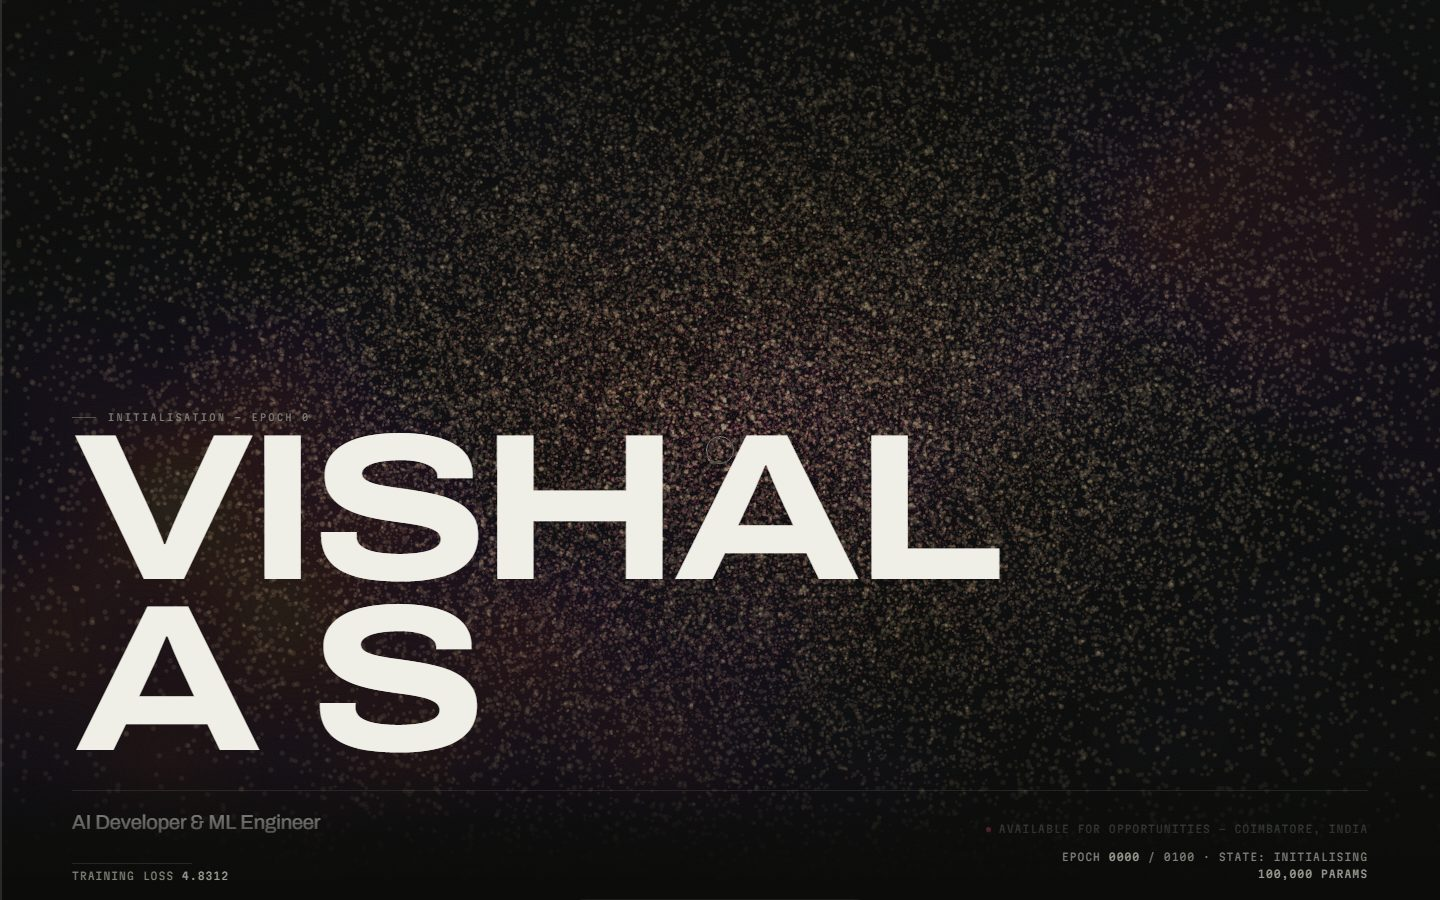
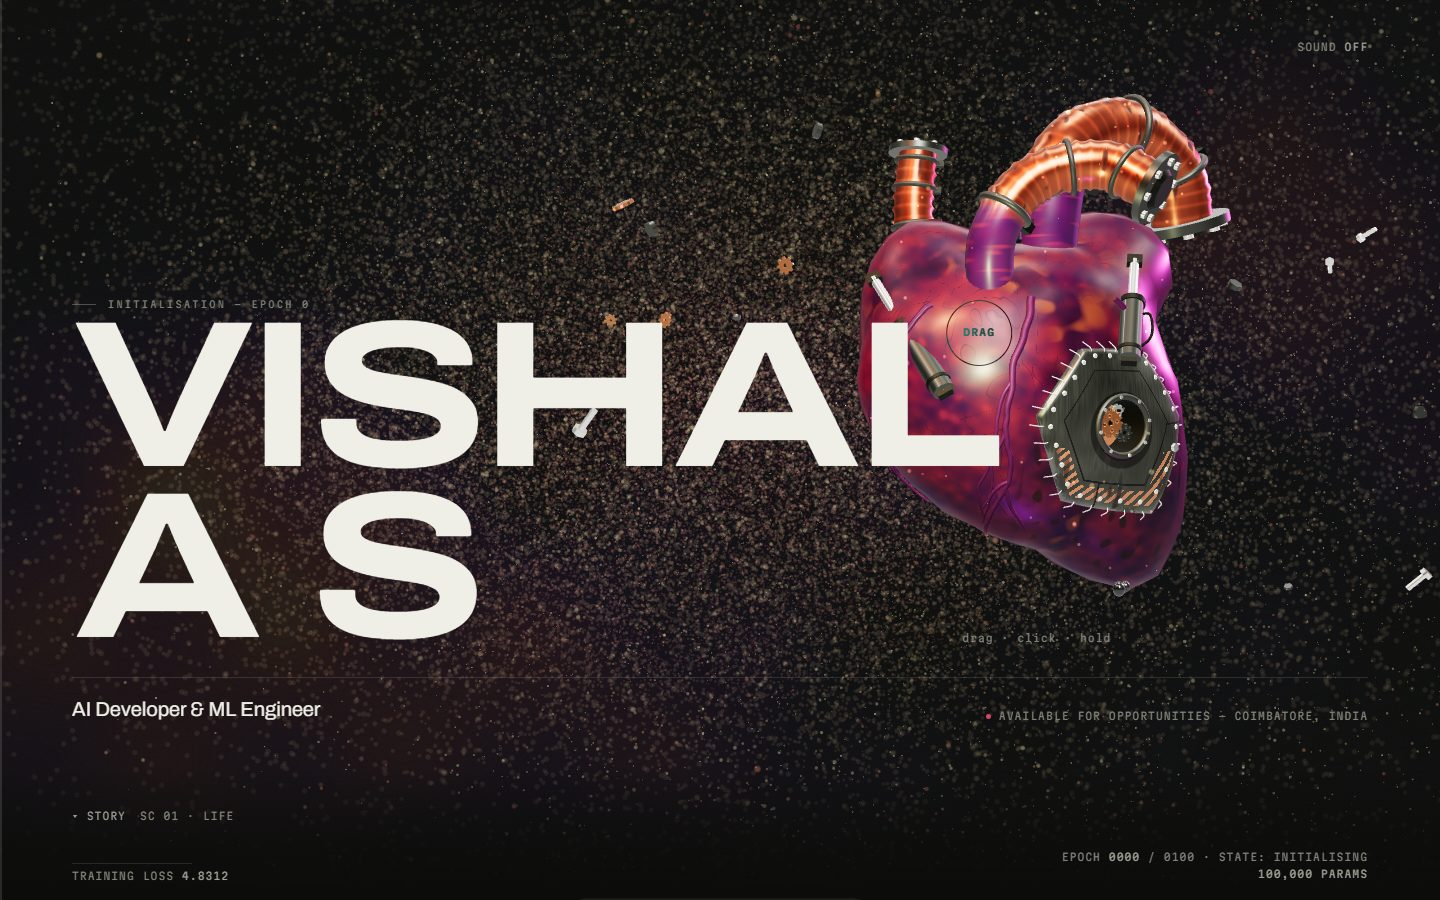
docs(readme): the 3D heart, the story band and a 3D mechanism per case study; new hero + mechanism screenshots
Also, in the not-yet-published GitHub READMEs: hits.sh view counter (komarev 404s through
GitHub's image proxy), streak card dropped, "just shipped" line, two dead competition links
(Solafune, Kaggle) replaced with notes.

diff --git a/README.md b/README.md
@@ -2,7 +2,7 @@
 
 <img src="https://capsule-render.vercel.app/api?type=waving&color=0:0C0D0B,30:3B0F70,60:8C2981,85:DE4968,100:FE9F6D&height=240&section=header&text=VISHAL%20A%20S&fontSize=64&fontColor=FCFDBF&fontAlignY=36&desc=Portfolio%20%C2%B7%20one%20repo%2C%20one%20deploy%2C%20ten%20worlds&descSize=19&descAlignY=58&animation=fadeIn" width="100%" alt="Vishal A S — portfolio"/>
 
-<img src="https://readme-typing-svg.demolab.com?font=Fira+Code&weight=600&size=21&duration=2800&pause=900&color=FE9F6D&center=true&vCenter=true&width=740&lines=%E2%9C%A8+100k-point+WebGL+field%2C+driven+by+scroll;%F0%9F%93%96+8+case+studies%2C+8+visual+languages;%F0%9F%93%84+A+plain+version+at+%2Fplain%2F;%F0%9F%9A%80+One+push+deploys+both" alt="typing summary"/>
+<img src="https://readme-typing-svg.demolab.com?font=Fira+Code&weight=600&size=21&duration=2800&pause=900&color=FE9F6D&center=true&vCenter=true&width=740&lines=%F0%9F%AB%80+A+half-flesh%2C+half-machine+3D+heart;%E2%9C%A8+100k-point+WebGL+field%2C+driven+by+scroll;%F0%9F%93%96+8+case+studies%2C+8+visual+languages;%F0%9F%A7%B1+An+interactive+3D+mechanism+on+every+one;%F0%9F%93%84+A+plain+version+at+%2Fplain%2F;%F0%9F%9A%80+One+push+deploys+both" alt="typing summary"/>
 
 <br/>
 
@@ -40,7 +40,7 @@ One repo, one build, **two sites on one origin**:
 
 | Path | Site | Built with |
 |---|---|---|
-| `/` | 🌌 **The main site** — a scroll-driven 100k-point particle field, a HUD that reads like a training run, and **eight standalone case-study pages** under `/work/:slug` | `v2/` · React, three.js, GSAP, Lenis |
+| `/` | 🌌 **The main site** — a half-flesh, half-machine **3D heart** you can drag, click and overclock, a scroll-driven 100k-point particle field, a silhouette **story told along the bottom edge**, a HUD that reads like a training run, and **eight standalone case-study pages** under `/work/:slug` | `v2/` · React, three.js, GSAP, Lenis |
 | `/plain/` | 📄 **The plain version** — one calm, readable page for anyone who'd rather skip the motion | repo root · React, shadcn/ui, Framer Motion |
 
 > 🚀 `npm run build:site` builds the main site into `v2/dist`, then the plain site into
@@ -52,16 +52,20 @@ One repo, one build, **two sites on one origin**:
 Every page invents its own fonts, palette, motion and technique — nothing is shared but the
 router. Each is code-split, so a project page never downloads the landing page's WebGL.
 
-| | Project | Concept | Technique |
-|:---:|---|---|---|
-| 👶 | [Why my baby is crying](https://portfolio-sigma-blond-57.vercel.app/work/baby-cry) | *Night Shift* | raw WebGL fragment shader, no three.js |
-| 🧠 | [EEG emotion detection](https://portfolio-sigma-blond-57.vercel.app/work/eeg-emotion) | *Paper* | pinned horizontal transport + SVG traces |
-| 📢 | [Tamil political sentiment](https://portfolio-sigma-blond-57.vercel.app/work/dravidian-sentiment) | *Muzhakkam* | kinetic typography and poster slams |
-| 🔐 | [Federated fraud detection](https://portfolio-sigma-blond-57.vercel.app/work/fraud-detection) | *Sealed* | character-scramble decryption at 24 fps |
-| 🦌 | [WISP](https://portfolio-sigma-blond-57.vercel.app/work/wisp) | *After Dark* | procedural imagery — zero photographs |
-| 🗂 | [Memora](https://portfolio-sigma-blond-57.vercel.app/work/memora) | *The Catalogue* | ScrollTrigger pinning with real 3D transforms |
-| 🕸 | [Semantic modeling](https://portfolio-sigma-blond-57.vercel.app/work/semantic-modeling) | *The Plate* | canvas force simulation |
-| 🌱 | [Qubit green finance](https://portfolio-sigma-blond-57.vercel.app/work/qubit-green-finance) | *Allocation* | CSS scroll-snap + `clip-path` reveals |
+Each one also carries a **mechanism section**: a pinned scroll storyboard whose stage is an
+interactive three.js scene of that project's actual pipeline, built from the page's own data and
+drawn in the page's own style, ending in a panel where you take control.
+
+| | Project | Concept | Technique | 🧱 3D mechanism — your turn |
+|:---:|---|---|---|---|
+| 👶 | [Why my baby is crying](https://portfolio-sigma-blond-57.vercel.app/work/baby-cry) | *Night Shift* | raw WebGL fragment shader, no three.js | cry spectrogram terrain → bandpass → 461 features → forest vote · pick a cry type |
+| 🧠 | [EEG emotion detection](https://portfolio-sigma-blond-57.vercel.app/work/eeg-emotion) | *Paper* | pinned horizontal transport + SVG traces | ink head, 14 electrodes, traces, VAD cube · click an electrode |
+| 📢 | [Tamil political sentiment](https://portfolio-sigma-blond-57.vercel.app/work/dravidian-sentiment) | *Muzhakkam* | kinetic typography and poster slams | Tamil tiles shredded and re-joined, dense / sparse / fused space · switch channel |
+| 🔐 | [Federated fraud detection](https://portfolio-sigma-blond-57.vercel.app/work/fraud-detection) | *Sealed* | character-scramble decryption at 24 fps | two glass vaults, SMOTE inside, sealed packets, hard vote · send a transaction |
+| 🦌 | [WISP](https://portfolio-sigma-blond-57.vercel.app/work/wisp) | *After Dark* | procedural imagery — zero photographs | the IR frame as attribution relief, six Captum methods · carry a torch |
+| 🗂 | [Memora](https://portfolio-sigma-blond-57.vercel.app/work/memora) | *The Catalogue* | ScrollTrigger pinning with real 3D transforms | an oak drawer of 40 cards, filed and filtered · ask by topic |
+| 🕸 | [Semantic modeling](https://portfolio-sigma-blond-57.vercel.app/work/semantic-modeling) | *The Plate* | canvas force simulation | the graph as a 3D blueprint, 32% dedupe, partitions · click for 2 hops |
+| 🌱 | [Qubit green finance](https://portfolio-sigma-blond-57.vercel.app/work/qubit-green-finance) | *Allocation* | CSS scroll-snap + `clip-path` reveals | isometric blocks, ESG floor, 40% cap · budget and floor sliders re-solve the LP |
 
 ## 🖼 Gallery
 
@@ -75,6 +79,10 @@ router. Each is code-split, so a project page never downloads the landing page's
 <td align="center"><b>🦌 After Dark</b><br/><a href="https://portfolio-sigma-blond-57.vercel.app/work/wisp"><img src="https://raw.githubusercontent.com/Vishal-AS-0407/portfolio/main/docs/readme/wisp.jpg" alt="After Dark"/></a></td>
 <td align="center"><b>📄 The plain version</b><br/><a href="https://portfolio-sigma-blond-57.vercel.app/plain/"><img src="https://raw.githubusercontent.com/Vishal-AS-0407/portfolio/main/docs/readme/plain.jpg" alt="Plain version"/></a></td>
 </tr>
+<tr>
+<td align="center"><b>🧱 Allocation · the programme, built</b><br/><a href="https://portfolio-sigma-blond-57.vercel.app/work/qubit-green-finance"><img src="https://raw.githubusercontent.com/Vishal-AS-0407/portfolio/main/docs/readme/mech-qubit.jpg" alt="Qubit mechanism section"/></a></td>
+<td align="center"><b>🗂 The Catalogue · filed, not replayed</b><br/><a href="https://portfolio-sigma-blond-57.vercel.app/work/memora"><img src="https://raw.githubusercontent.com/Vishal-AS-0407/portfolio/main/docs/readme/mech-memora.jpg" alt="Memora mechanism section"/></a></td>
+</tr>
 </table>
 </div>
 
@@ -85,10 +93,12 @@ flowchart TD
     SCROLL["🖱 Lenis smooth scroll"] --> TICK["⏱ gsap.ticker — one frame loop"]
     TICK --> SPINE["📐 lib/scroll.ts<br/>onFrame(p, vel, dt) · deviceTier()"]
     SPINE --> FIELD["🌌 lib/field.ts<br/>100k points · pure function of scroll"]
+    SPINE --> HEART["🫀 Biomech hero<br/>procedural heart · GPGPU swarm"]
+    SPINE --> STORY["🎞 Inheritance<br/>2D skeletal rig · 9 scenes"]
     SPINE --> HUD["📟 HUD<br/>loss curve · epoch · state"]
     SPINE --> SECTIONS["📚 Sections<br/>work · research · awards · contact"]
     ROUTER["🧭 React Router"] --> HOME["/ — HomeShell (lazy)"]
-    ROUTER --> WORK["/work/:slug — 8 lazy pages"]
+    ROUTER --> WORK["/work/:slug — 8 lazy pages<br/>+ a 3D mechanism section each"]
     ROUTER --> PLAIN["/plain/ — separate build"]
     style SPINE fill:#8C2981,stroke:#FE9F6D,color:#FCFDBF
     style FIELD fill:#DE4968,stroke:#FCFDBF,color:#0C0D0B
@@ -96,7 +106,9 @@ flowchart TD
 
 | Decision | Why |
 |---|---|
-| 🔁 **One frame loop** | everything subscribes to `onFrame` — no competing `requestAnimationFrame`s |
+| 🔁 **One frame loop** | on the landing page everything subscribes to `onFrame` — no competing `requestAnimationFrame`s |
+| 🫀 **No model files** | the heart, its grafts, the swarm and the story's characters are all procedural — zero downloaded assets, zero new dependencies |
+| 🧱 **Shared plumbing, no shared look** | `_shared/stage3d` + `_shared/Mechanism` give every case study a renderer, orbit, picking and a pinned storyboard; each page brings its own scene, colours and type, and the loop only runs while the section is on screen |
 | 📱 **Device tiers** | reduced-motion / mobile / desktop decide point counts and effects |
 | 🧩 **Lazy everything** | the entry chunk is React + router; each route fetches its own world |
 | 🔎 **Per-route canonical** | each case study canonicalises to itself; unknown paths get `noindex` |
@@ -130,7 +142,8 @@ decides how hard particles are pushed.
 <details>
 <summary><b>🥚 Easter eggs</b></summary>
 
-Open the console on the main site. Try typing on the page, too.
+Open the console on the main site. Try typing on the page, too. And the heart has a loose
+bolt — interact with it enough and you'll see which one.
 
 </details>
 
@@ -172,12 +185,15 @@ link to. With a custom domain, search the repo for `portfolio-sigma-blond-57` an
 📦 portfolio
  ┣ 📂 v2                     🌌 main site
  ┃ ┣ 📂 src/routes           Home · HomeShell · NotFound
- ┃ ┣ 📂 src/projects         8 case studies, one folder each
+ ┃ ┣ 📂 src/hero/biomech     the 3D heart · grafts · swarm · teardown egg · synth
+ ┃ ┣ 📂 src/story            Inheritance · skeletal rig · 9-scene script
+ ┃ ┣ 📂 src/projects         8 case studies, one folder each (+ mechanism.ts)
+ ┃ ┣ 📂 src/projects/_shared stage3d · Mechanism · BackLink · page shell
  ┃ ┣ 📂 src/components       Section · chrome (Stage, HUD, Cursor, Preloader)
  ┃ ┗ 📂 src/lib              scroll spine · particle field · eggs
  ┣ 📂 src                    📄 plain site (shadcn/ui)
  ┣ 📂 supabase/migrations    contact table + RLS
- ┣ 📂 docs/design            concept doc per case study + build log
+ ┣ 📂 docs/design            concept doc per case study, hero/story and mechanism plans
  ┗ ⚙ vercel.json            routes / and /plain/
 ```
 
@@ -188,7 +204,8 @@ link to. With a custom domain, search the repo for `portfolio-sigma-blond-57` an
 
 - 🔒 Both `bun.lockb` and `package-lock.json` exist at the root; deploys use npm.
 - 🧱 `src/components/ui/` is the full shadcn/ui set — unused parts are tree-shaken away.
-- 🗺 Next up: an interactive 3D hero and a scroll-told story on the landing page.
+- ✅ Shipped: the 3D hero, the scroll-told story and a 3D mechanism on every case study —
+  plans in `docs/design/biomech-and-inheritance.md` and `docs/design/subpages-mechanism.md`.
 
 </details>
 

diff --git a/gh-profile/README.md b/gh-profile/README.md
@@ -11,7 +11,7 @@
 <a href="https://portfolio-sigma-blond-57.vercel.app/"><img src="https://img.shields.io/badge/🌐_Portfolio-visit-DE4968?style=for-the-badge&labelColor=0C0D0B" alt="Portfolio"/></a>
 <a href="https://scholar.google.com/citations?user=fPK6EDAAAAAJ&hl=en"><img src="https://img.shields.io/badge/Google_Scholar-publications-4285F4?style=for-the-badge&logo=googlescholar&logoColor=white" alt="Google Scholar"/></a>
 <a href="https://www.linkedin.com/in/vishal-a-s04/"><img src="https://img.shields.io/badge/LinkedIn-connect-0077B5?style=for-the-badge&logo=linkedin&logoColor=white" alt="LinkedIn"/></a>
-<img src="https://komarev.com/ghpvc/?username=Vishal-AS-0407&style=for-the-badge&color=00D4FF&label=profile+views" alt="Profile views"/>
+<img src="https://hits.sh/github.com/Vishal-AS-0407.svg?style=for-the-badge&label=profile%20views&color=00d4ff&labelColor=070a12" alt="Profile views"/>
 
 </div>
 
@@ -146,8 +146,6 @@ print("Let's build something amazing!")
 <div align="center">
   <img height="170em" src="https://github-readme-stats.vercel.app/api?username=Vishal-AS-0407&show_icons=true&theme=tokyonight&hide_border=true&count_private=true&include_all_commits=true" alt="GitHub stats"/>
   <img height="170em" src="https://github-readme-stats.vercel.app/api/top-langs/?username=Vishal-AS-0407&layout=compact&theme=tokyonight&hide_border=true&langs_count=8" alt="Top languages"/>
-  <br/>
-  <img src="https://streak-stats.demolab.com?user=Vishal-AS-0407&theme=tokyonight&hide_border=true" alt="GitHub streak"/>
 </div>
 
 ## <img src="https://user-images.githubusercontent.com/74038190/212284087-bbe7e430-757e-4901-90bf-4cd2ce3e1852.gif" width="50px" alt=""/> What I'm Working On
@@ -160,7 +158,7 @@ print("Let's build something amazing!")
 memory for long-running sessions · an autonomous ML toolkit (prep → train → infer → deploy) · an
 RL-fine-tuned cybersecurity model  
 📝 **Under review:** bilingual VLM fine-tuning for mathematical reasoning (ICICC)  
-🎨 **Side quest:** a 3D interactive hero for my [portfolio](https://portfolio-sigma-blond-57.vercel.app/)  
+🎨 **Just shipped:** my [portfolio](https://portfolio-sigma-blond-57.vercel.app/) — a 3D biomechanical-heart hero and an interactive 3D walkthrough on every case study  
 💬 **Ask me about:** signal processing, LLM systems, agents, computer vision, AI in healthcare  
 ♟ **Fun fact:** FIDE-rated chess player — 100+ tournaments, 50+ wins, State Selection bronze
 

diff --git a/docs/TASKS.md b/docs/TASKS.md
@@ -29,7 +29,7 @@ content but present it that way, using open-source components that were each che
 | Tech icons | tandpfun/skill-icons | ✅ 200 |
 | Badges | shields.io (`for-the-badge`) | ✅ 200 |
 | Stats / top-langs / pin cards | anuraghazra/github-readme-stats | ✅ real data |
-| Streak card | DenverCoder1/github-readme-streak-stats | ✅ real data |
+| Streak card | DenverCoder1/github-readme-streak-stats | ✅ real data — dropped from the profile (current streak 0 reads badly) |
 | Animated GIFs, dividers, emojis | Anmol-Baranwal/Cool-GIFs-For-GitHub | ✅ |
 | Structure (ToC, Built With, Usage, Roadmap…) | othneildrew/Best-README-Template | ✅ |
 | Activity graph · trophies | Ashutosh00710 · ryo-ma | ❌ 402 — **not used** |
@@ -37,7 +37,7 @@ content but present it that way, using open-source components that were each che
 
 - [x] Shared kit: one set of header/footer/divider/badge conventions, a colour per project
 - [x] Profile README (Vishal-AS-0407) — your animated style, upgraded: results with evidence,
-      case-study links, stats + streak, fixed Google Scholar link (was a placeholder)
+      case-study links, stats + top languages, fixed Google Scholar link (was a placeholder)
 - [x] 27 repo READMEs — keep your originals' screenshots, demo links and good parts; add
       architecture Mermaid, results tables, quick-start; known issues go in a collapsed
       `<details>` at the bottom instead of dominating

diff --git a/gh-readmes/Aerosol-Optical-Depth-Estimation/README.md b/gh-readmes/Aerosol-Optical-Depth-Estimation/README.md
@@ -130,8 +130,8 @@ pip install -r requirements.txt
 python main.py         # reads config.json → checkpoint/ and prediction/
 ```
 
-> 💡 **Tip:** download the [competition data](https://solafune.com/competitions/ca6ee401-eba9-4f7d-95e6-d1b378a17200)
-> into `Data/train_images/`, `Data/test_images/` and `Data/train_answer.csv`.
+> 💡 **Tip:** download the competition data from [Solafune](https://solafune.com/) (the original
+> competition page has since been taken down) into `Data/train_images/`, `Data/test_images/` and `Data/train_answer.csv`.
 
 ```
 📦 Aerosol-Optical-Depth-Estimation

diff --git a/gh-readmes/The-Efficient-AI-Challenge---Birds-Classification/README.md b/gh-readmes/The-Efficient-AI-Challenge---Birds-Classification/README.md
@@ -137,7 +137,8 @@ python test.py       # 3⃣ predictions + submission
 
 > 💡 **Tip:** put the [CUB-200-2011](http://www.vision.caltech.edu/datasets/cub_200_2011/) images
 > in `images/` with `annotation2.csv` at the root. Remove the hard-coded `E:/...` save line in
-> `distill.py` first. · [Competition](https://www.kaggle.com/competitions/bird-classification-anokha/data)
+> `distill.py` first. · The Kaggle competition
+> page (`bird-classification-anokha`) is no longer public.
 
 ```
 📦 The-Efficient-AI-Challenge---Birds-Classification

diff --git a/gh-profile/HOW-TO-PUBLISH.md b/gh-profile/HOW-TO-PUBLISH.md
@@ -2,7 +2,7 @@
 
 `README.md` here goes to the special repo `Vishal-AS-0407/Vishal-AS-0407`. It is
 self-contained: no `assets/` folder — every image is a hosted, open-source component
-(typing SVG, GIFs, skill icons, stats/top-langs/streak cards, pin cards, badges, view counter).
+(typing SVG, GIFs, skill icons, stats/top-langs cards, pin cards, badges, view counter via hits.sh — komarev 404s through GitHub's image proxy).
 
 ```bash
 python gh-readmes/publish.py --only Vishal-AS-0407
